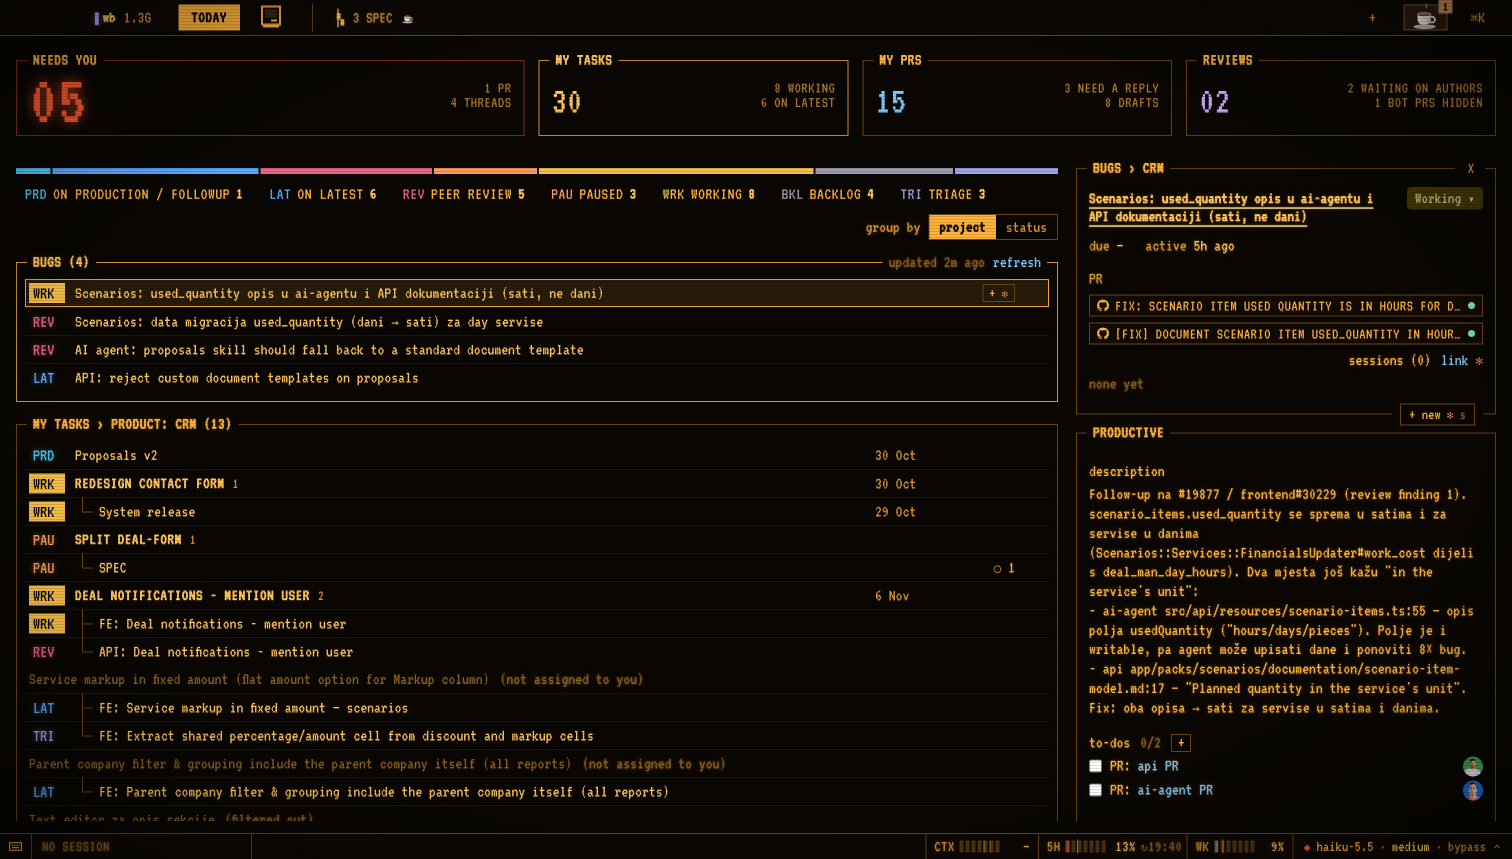
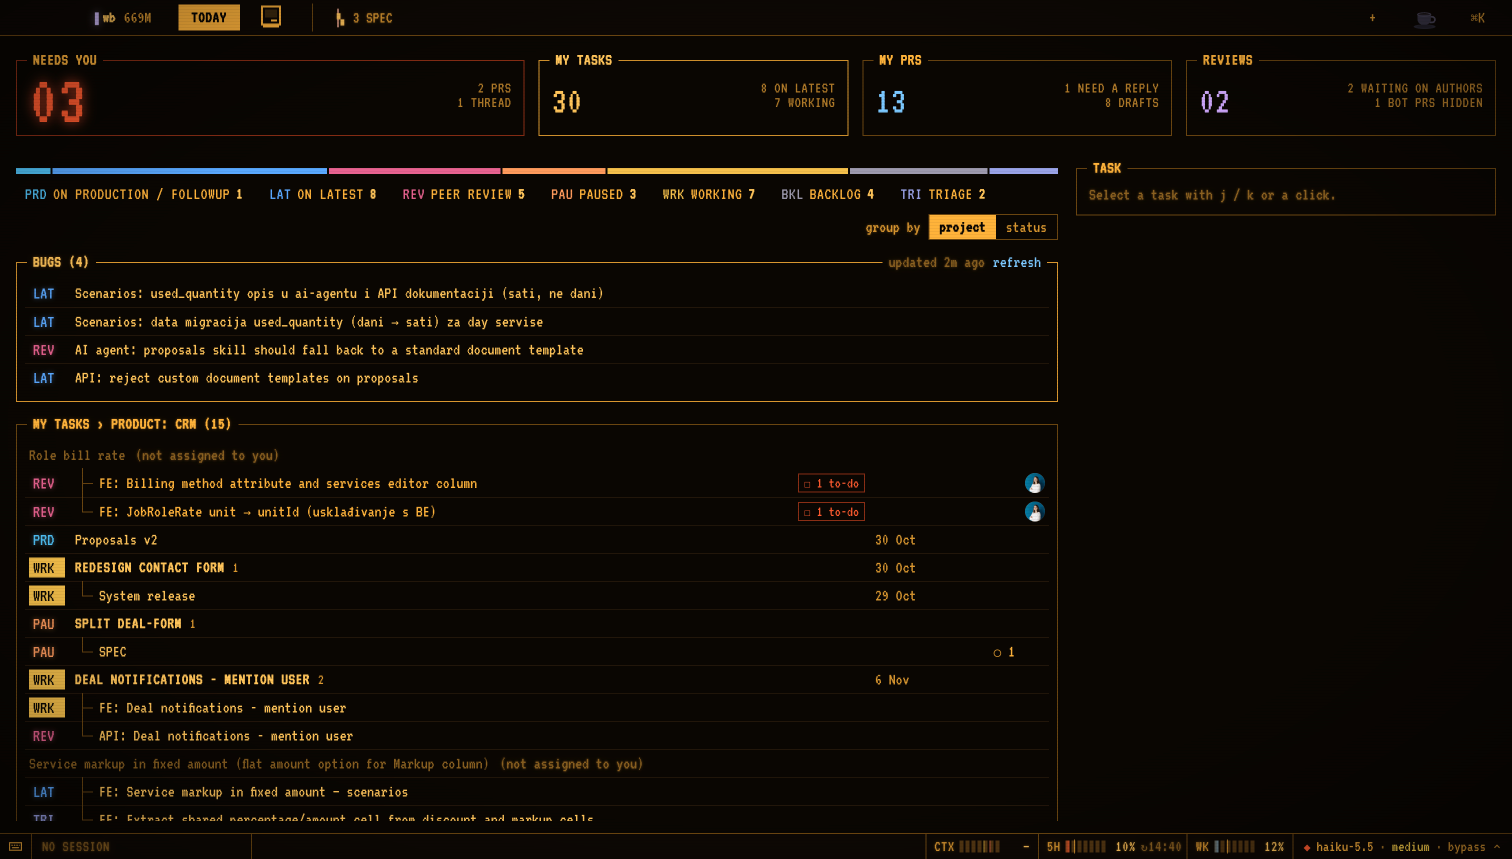
MU/TH/UR terminals readable: Share Tech Mono at 14px, line 1.35 (VT323 stays in the chrome); scanlines fainter (.05)

diff --git a/src/renderer/src/themes.css b/src/renderer/src/themes.css
@@ -63,9 +63,10 @@
   --mono: 'VT323', ui-monospace, monospace;
   --sans: var(--mono);
   --display: var(--mono);
-  --term-font: 'VT323', ui-monospace, monospace;
-  --term-size: 21;
-  --term-line: 1.12;
+  /* Terminals read long replies: a clean retro mono there, VT323 for the chrome. */
+  --term-font: 'Share Tech Mono', ui-monospace, monospace;
+  --term-size: 14;
+  --term-line: 1.35;
   --term-bold: normal;
 }
 /* VT323 is small for its size: scale every face to JetBrains Mono's x-height, so fixed sizes and widths keep working. */
@@ -76,7 +77,7 @@
 /* Scanlines and a soft vignette over everything; never in the way of the pointer. */
 [data-theme='muthur'] .crt-fx {
   display: block; position: fixed; inset: 0; z-index: 9999; pointer-events: none;
-  background: repeating-linear-gradient(0deg, rgba(0, 0, 0, 0.13) 0 1px, transparent 1px 3px), radial-gradient(ellipse at center, transparent 65%, rgba(0, 0, 0, 0.4) 100%);
+  background: repeating-linear-gradient(0deg, rgba(0, 0, 0, 0.05) 0 1px, transparent 1px 3px), radial-gradient(ellipse at center, transparent 65%, rgba(0, 0, 0, 0.4) 100%);
 }
 /* Chrome speaks in capitals; what you or Claude typed keeps its case. */
 [data-theme='muthur'] :is(.topbar .place, .box-title, .counter .box-title, .counter-note, .statusbar, .session-bar .sbar-label, .pop-label, .fchip, .seg-pair, .task-line.parent .task-name, .local-head h1, .pane-head, .chip) { text-transform: uppercase; letter-spacing: 0.04em; }

diff --git a/docs/SPEC.md b/docs/SPEC.md
@@ -78,7 +78,7 @@ Image: every screenshot below; the other themes in `theme-muthur.png`, `theme-br
 - **Text links.** A word that already says something (a CI state) links without changing colour: underline on hover only. Plain links that are only links use the link colour.
 - **Still at rest.** Nothing loops; glow is kept for a waiting tab and the Needs-you number. Plain ground behind lists and the terminal.
 - **Themes.** Dusk (muted synthwave on graphite, purple accent) is the default; four cassette-futurism themes (MU/TH/UR, Brown workstation, Ops console, Night drive) can be picked from the app menu (Workbench › Theme) or ⌘K (`theme`). The choice is the setting `ui:theme` (mirrored in localStorage so the first paint has it) and applies at once as `data-theme` on `<html>`; open terminals switch colours, face and size in place. Colours are CSS tokens; each theme replaces them and restyles the shell in `themes.css`; terminals read `--term-font` / `--term-size` / `--term-line`. Night drive is a 1980s digital dash: VFD cyan text on near-black, every box and counter a rounded smoked-acrylic lens with its Michroma title inside, counters in Orbitron over unlit 8s (Needs you lights amber, the accent), Today / Local as a lit gear strip, statuses as glowing segments, meters as stepped bar gauges, a fine screen-door grid over the window.
-  - **MU/TH/UR:** amber phosphor on near-black, VT323 (scaled to JetBrains Mono's x-height with `font-size-adjust`, so sizes and column widths hold), light scanlines and a soft vignette over the whole window, chrome in capitals. Task rows and status chips print a three-letter status code in the status colour instead of the name and drop the dot; Working is reverse video. Counters print two digits; My PRs blue, Reviews violet; Needs you hot red (the accent). The current place and tab are reverse video. Meters are block cells. Terminals use VT323 at 21px with no synthetic bold, and are left out of the `font-size-adjust` (xterm measures its cell in the DOM but draws on a canvas, so an adjusted measure overlaps the glyphs).
+  - **MU/TH/UR:** amber phosphor on near-black, VT323 (scaled to JetBrains Mono's x-height with `font-size-adjust`, so sizes and column widths hold), faint scanlines and a soft vignette over the whole window, chrome in capitals. Task rows and status chips print a three-letter status code in the status colour instead of the name and drop the dot; Working is reverse video. Counters print two digits; My PRs blue, Reviews violet; Needs you hot red (the accent). The current place and tab are reverse video. Meters are block cells. Terminals use Share Tech Mono at 14px, line 1.35, with no synthetic bold (VT323 at terminal sizes was tiring to read), and are left out of the `font-size-adjust` (xterm measures its cell in the DOM but draws on a canvas, so an adjusted measure overlaps the glyphs).
   - **Brown workstation:** smoked-brown chrome, Space Mono; places, top-bar buttons and tabs are keycaps, the current one the orange key, pressed; `▌wb` carries the four sunset stripes; each counter has its stripe colour down the left and its number in it; box titles small amber capitals; faint scanlines; the meters sit on a grey-green LCD strip with dark segments.
   - **Ops console:** slate panels on a perforated ground, Share Tech Mono, a cream → orange → rust → brown stripe under the top bar; box and counter titles on embossed Dymo tape (Needs you on red tape); counters are screwed plates with seven-segment LED digits (amber, Needs you red); status dots are glowing lamps and status names small capitals; status chips carry a toggle switch; meters are green LED ladders.
   - Segmented meters (Muthur, Brown, Console) drop the quarter cuts; the ctx thresholds and the pace mark stay (on Brown the pace mark is LCD ink).
